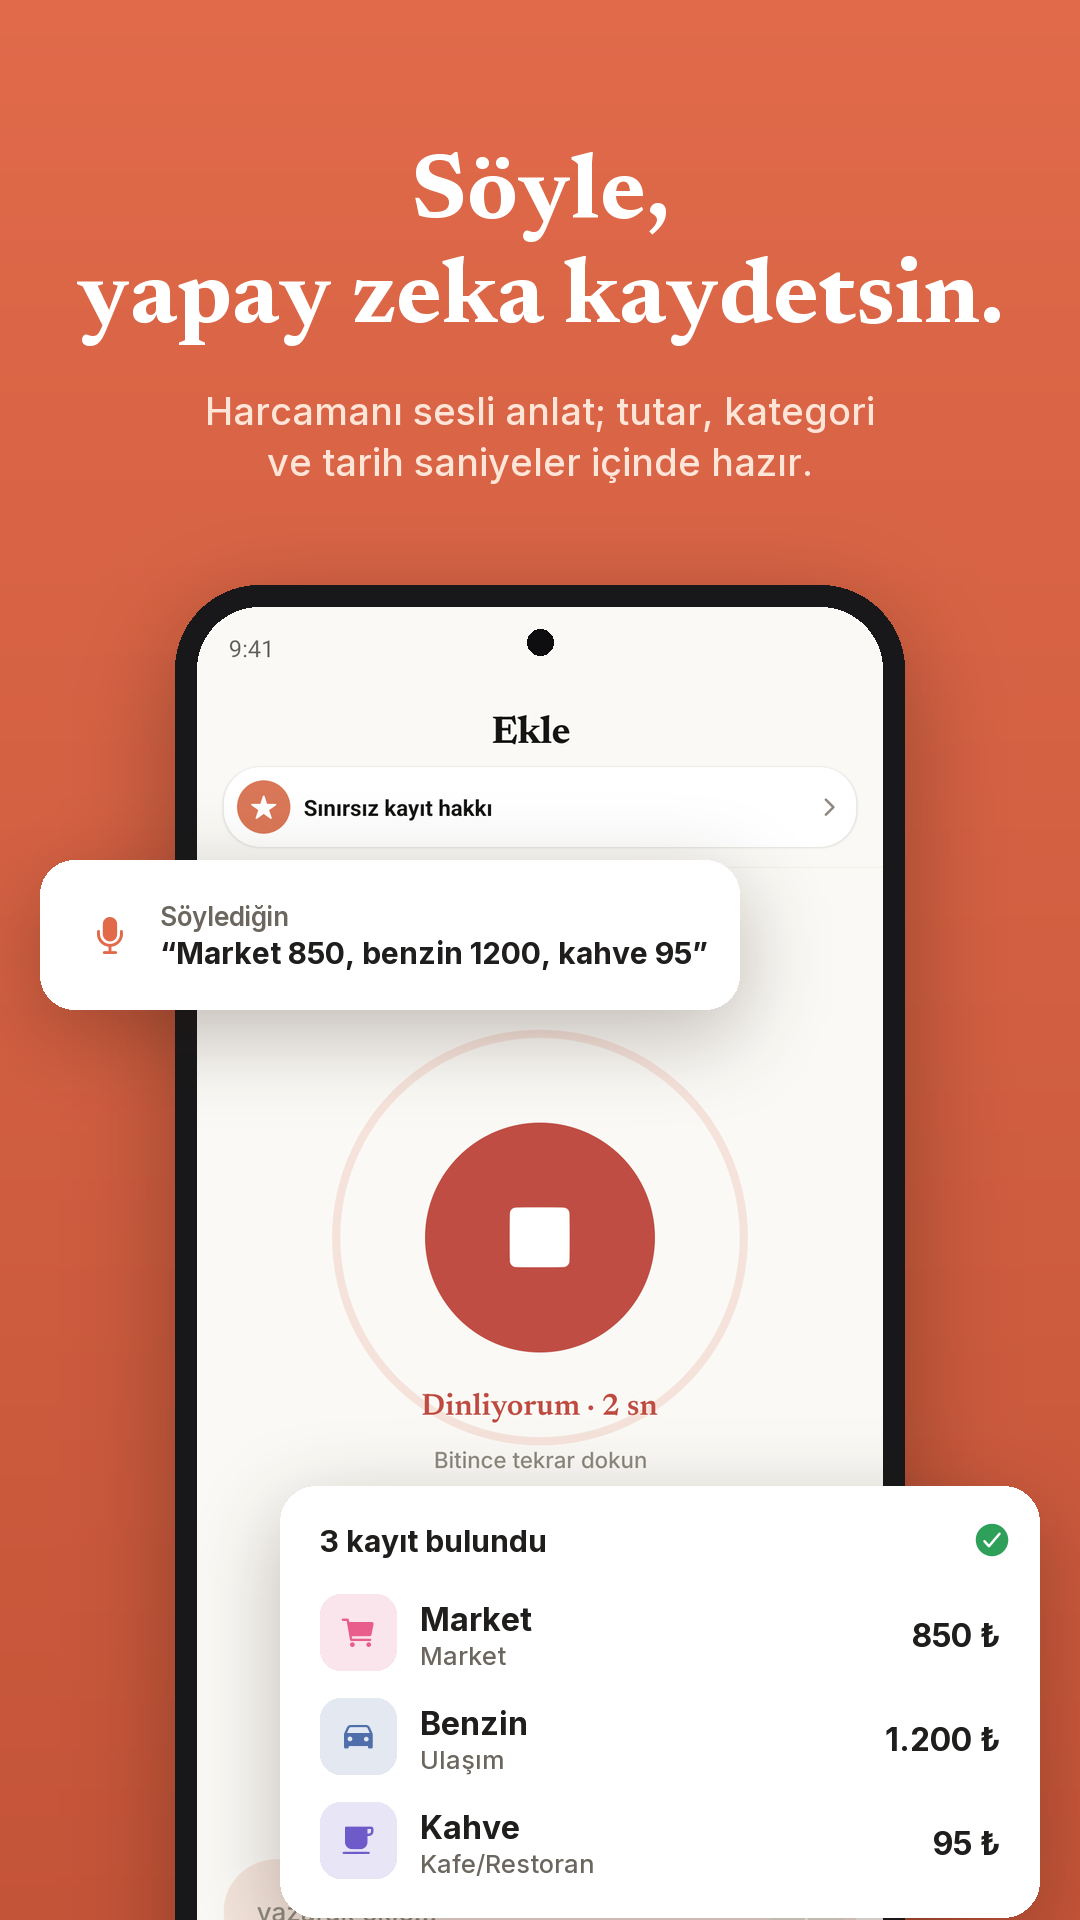
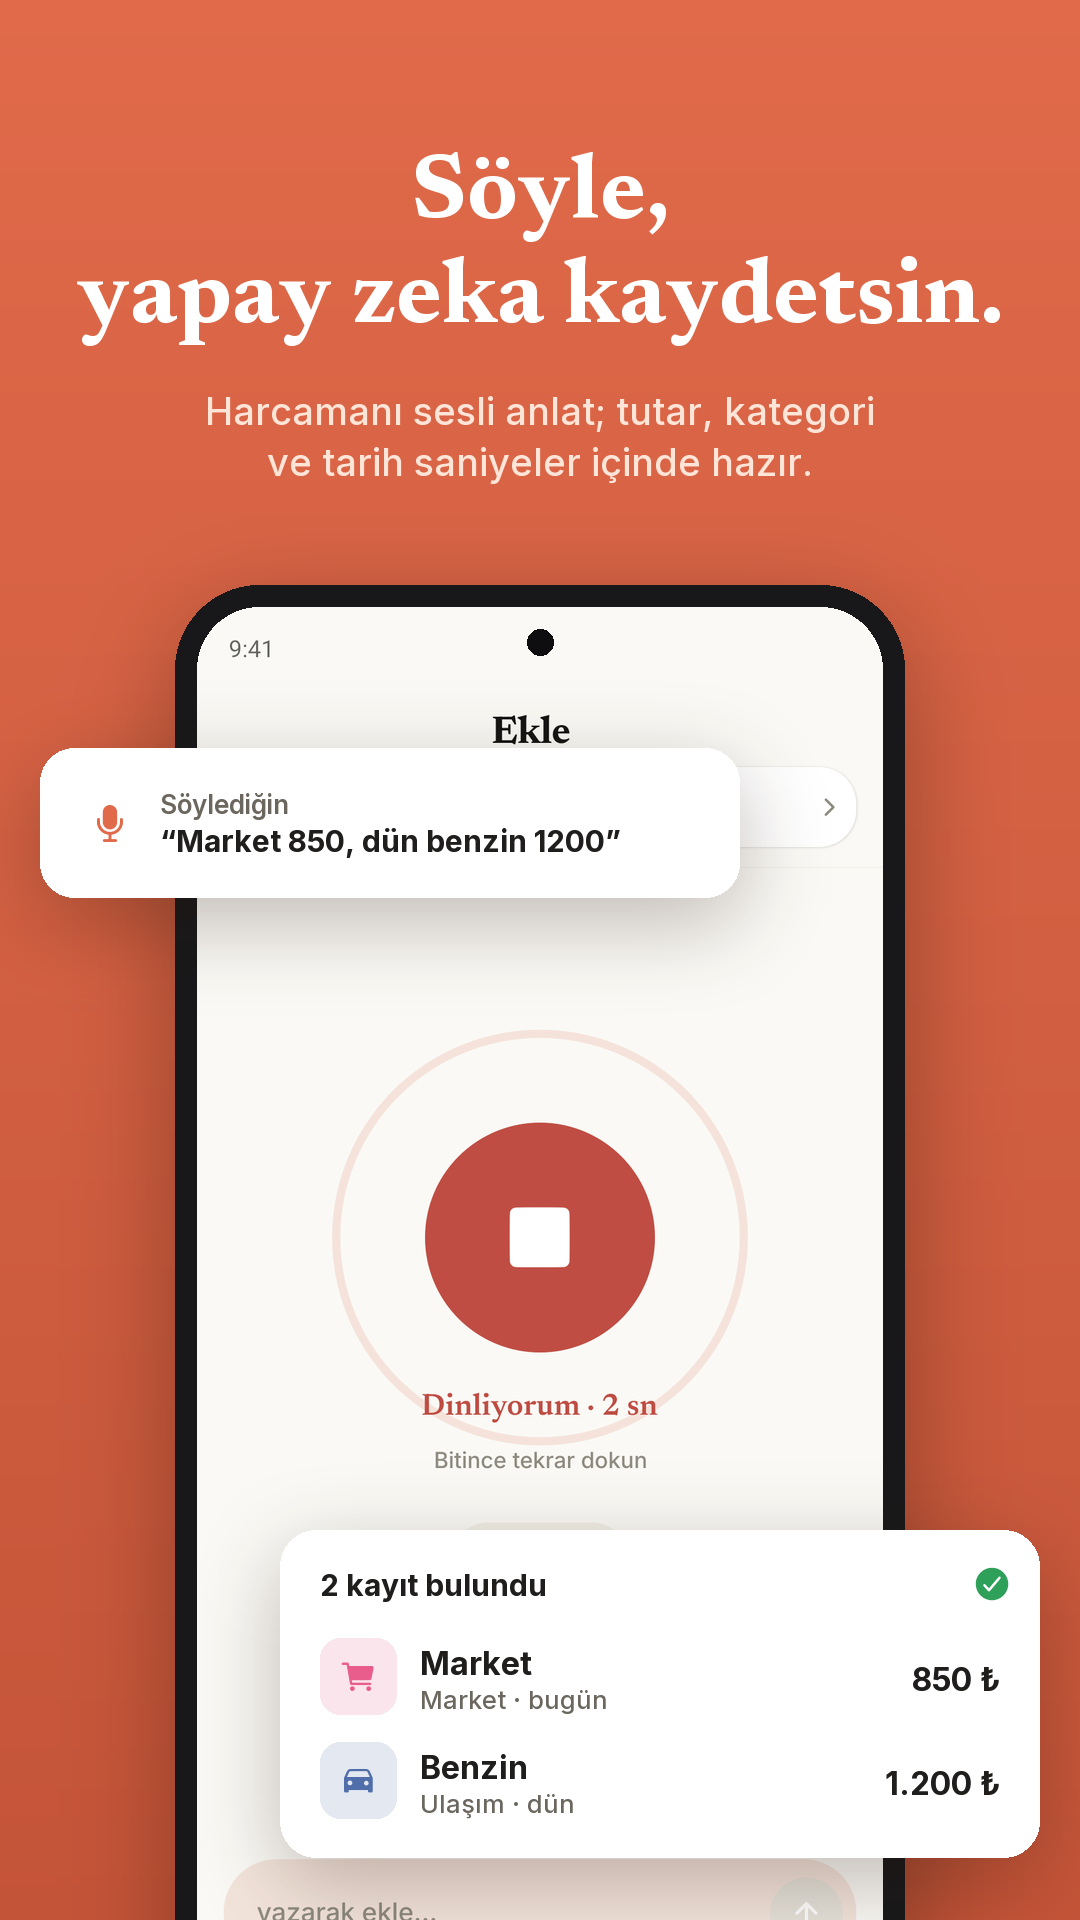
Mağaza görselleri v2: 8 ekran (ses 2 kayıtla, kategori kıyası, limit/hedef, onay, tekrarlayan, bildirim, Excel/PDF, gizlilik)
Ham görüntüler test-ekran@ hesabıyla emülatörden; Expo Go'nun siyah durum çubuğu betikte temiz çubukla değiştirilir.
Örnek cümle 2 kayıt: Free'de günde 3 hak, mağaza örneği hepsini bitirmesin.

Claude-Session: https://claude.ai/code/session_01DHpTQJ2GvvbTb2SL4nd3xL

Changed region(s): [[0.2444, 0.75, 0.9778, 1.0], [0.0306, 0.375, 0.7028, 0.5625]]

diff --git a/scripts/magaza_ekran_goruntuleri.py b/scripts/magaza_ekran_goruntuleri.py
@@ -1,8 +1,12 @@
 """Play Store telefon ekran görüntüleri (1080×1920, 9:16) — ham emülatör görüntülerinden.
 
-Girdi:  docs/magaza-gorselleri/ham/*.png  (Pixel 6 emülatörü, 1080×2400, demo hesap,
-        sysui demo modu: saat 9:41, bildirim yok)
-Çıktı:  docs/magaza-gorselleri/ekran-1..6.png
+Girdi:  docs/magaza-gorselleri/ham/*.png  (Pixel 6 emülatörü, 1080×2400, test-ekran@ hesabı,
+        sysui demo modu: saat 9:41, bildirim yok). Build 11 ile eklenenler (analiz1/2, hedef1/2,
+        tekrar) Expo Go'da siyah durum çubuğuyla çekildi → `ham()` eski temiz çubuğu üstüne koyar.
+Çıktı:  docs/magaza-gorselleri/ekran-1..8.png  (plan: docs/BUYUME-ANALIZI.md §1.6)
+
+Örnek cümle bilerek 2 kayıt: Free planda günde 3 hak var; mağazadaki örnek tek denemede
+hakkın hepsini bitirmesin.
 
 Düzen (2026 mağaza kalıbı): üstte kısa sonuç odaklı başlık + tek satır alt metin, altta
 cihaz çerçevesi (alttan taşar), bazı karelerde arayüzden kesilip büyütülmüş "yüzen" kart.
@@ -88,8 +92,26 @@ def cihaz(tuval: Image.Image, ekran: Image.Image, x: int, y: int, genislik: int)
     golge_yapistir(tuval, govde, (x, y), 84, bulanik=50, koyuluk=90, dy=30)
 
 
+STATU_YUKSEKLIK = 128
+# Temiz durum çubuğu (9:41, wifi, pil) — eski ham görüntüden; arka planı ekrana göre boyanır
+_STATU_KAYNAK = "home"
+
+
+def _statu_seridi(zemin_renk) -> Image.Image:
+    serit = Image.open(HAM / f"{_STATU_KAYNAK}.png").convert("RGB").crop((0, 0, W, STATU_YUKSEKLIK))
+    # KREM'den belirgin farklı pikseller = ikon/yazı; geri kalanı ekranın kendi rengi
+    fark = Image.eval(
+        Image.merge("RGB", [c.point(lambda v, k=k: abs(v - k)) for c, k in zip(serit.split(), KREM, strict=True)]).convert("L"),
+        lambda v: 255 if v > 24 else round(v * 255 / 24),
+    )
+    return Image.composite(serit, Image.new("RGB", serit.size, zemin_renk), fark)
+
+
 def ham(ad: str) -> Image.Image:
-    return Image.open(HAM / f"{ad}.png").convert("RGB")
+    im = Image.open(HAM / f"{ad}.png").convert("RGB")
+    if im.getpixel((540, 60)) == (0, 0, 0):  # Expo Go'nun siyah durum çubuğu
+        im.paste(_statu_seridi(im.getpixel((540, STATU_YUKSEKLIK + 6))), (0, 0))
+    return im
 
 
 def kirp(ad: str, kutu) -> Image.Image:
@@ -143,16 +165,16 @@ def kare1() -> Image.Image:
     b, d = kart(700, 150)
     ikon(d, "mic", (70, 75), 46, TURUNCU)
     d.text((120, 40), "Söylediğin", font=font("sans", "600SemiBold", 26), fill=SOLUK)
-    d.text((120, 74), "“Market 850, benzin 1200, kahve 95”",
+    d.text((120, 74), "“Market 850, dün benzin 1200”",
            font=font("sans", "700Bold", 30), fill=YAZI)
-    golge_yapistir(t, b, (40, 860), 34)
+    # Balon, ham görüntüdeki eski Pro hesabın "Sınırsız kayıt hakkı" şeridini de örter
+    golge_yapistir(t, b, (40, 748), 34)
 
-    # Bulunan kayıtlar
-    satirlar = [("cart", (232, 93, 140), "Market", "Market", "850 ₺"),
-                ("car", (80, 110, 170), "Benzin", "Ulaşım", "1.200 ₺"),
-                ("cafe", (110, 90, 200), "Kahve", "Kafe/Restoran", "95 ₺")]
+    # Bulunan kayıtlar (2 — bkz modül notu)
+    satirlar = [("cart", (232, 93, 140), "Market", "Market · bugün", "850 ₺"),
+                ("car", (80, 110, 170), "Benzin", "Ulaşım · dün", "1.200 ₺")]
     k, d = kart(760, 120 + 104 * len(satirlar))
-    d.text((40, 36), "3 kayıt bulundu", font=font("sans", "700Bold", 30), fill=YAZI)
+    d.text((40, 36), f"{len(satirlar)} kayıt bulundu", font=font("sans", "700Bold", 30), fill=YAZI)
     ikon(d, "checkmark-circle", (712, 54), 40, (46, 160, 90))
     for i, (ik, rk, ad, kat, tutar) in enumerate(satirlar):
         y = 108 + i * 104
@@ -161,11 +183,39 @@ def kare1() -> Image.Image:
         d.text((140, y + 6), ad, font=font("sans", "700Bold", 32), fill=YAZI)
         d.text((140, y + 46), kat, font=font("sans", "500Medium", 25), fill=SOLUK)
         d.text((720, y + 22), tutar, font=font("sans", "700Bold", 32), fill=YAZI, anchor="ra")
-    golge_yapistir(t, k, (280, 1486), 36)
+    golge_yapistir(t, k, (280, 1530), 36)
     return t
 
 
-def kare2() -> Image.Image:
+def kare_analiz() -> Image.Image:
+    t = zemin(KREM, SEFTALI)
+    baslik(t, ["Paran nereye gidiyor?", "Tek bakışta."],
+           "Her kategoride geçen aya göre\nyüzde kaç arttı ya da azaldı.", vurgu="Tek")
+    cihaz(t, ham("analiz2"), 175, 640, 686)
+    satir = kirp("analiz2", (42, 885, 1038, 1100))
+    satir = satir.resize((900, round(satir.height * 900 / satir.width)), Image.LANCZOS)
+    golge_yapistir(t, satir, (90, 1240), 34)
+    return t
+
+
+def kare_limit_hedef() -> Image.Image:
+    t = zemin(KREM, SEFTALI)
+    baslik(t, ["Limit mi, hedef mi?", "Sen seç."],
+           "Harcamaya üst sınır, birikime hedef.\nHer kategori için ayrı.", vurgu="seç")
+    cihaz(t, ham("hedef2"), 175, 640, 686)
+    limit = kirp("hedef2", (42, 415, 1038, 617))
+    limit = limit.resize((900, round(limit.height * 900 / limit.width)), Image.LANCZOS)
+    golge_yapistir(t, limit, (90, 1130), 34)
+    hedef = kirp("hedef1", (84, 1618, 996, 1820)).resize((900, 199), Image.LANCZOS)
+    d = ImageDraw.Draw(hedef)
+    # Yatırım satırında rozet yok — mağaza görselinde iki türü yan yana göstermek için "HEDEF" rozeti
+    d.rounded_rectangle([390, 34, 512, 82], 24, fill=BEYAZ)
+    d.text((451, 58), "HEDEF", font=font("sans", "700Bold", 24), fill=TURUNCU, anchor="mm")
+    golge_yapistir(t, hedef, (90, 1400), 34)
+    return t
+
+
+def kare_onay() -> Image.Image:
     t = zemin(KREM, SEFTALI)
     baslik(t, ["Kontrol", "her zaman sende."],
            "Bulunan tutarı, kategoriyi ve tarihi\ntek dokunuşla düzelt, onayla.", vurgu="sende")
@@ -173,30 +223,18 @@ def kare2() -> Image.Image:
     return t
 
 
-def kare3() -> Image.Image:
+def kare_tekrar() -> Image.Image:
     t = zemin(KREM, SEFTALI)
-    baslik(t, ["Paran nereye gidiyor?", "Tek bakışta."],
-           "Aylık toplamın ve kategori dağılımın\nana ekranında seni bekliyor.", vurgu="Tek")
-    cihaz(t, ham("home"), 175, 640, 686)
-    # Toplam kartı — yüzen
-    ust = kirp("home", (40, 462, 1040, 892))
-    ust = ust.resize((800, round(ust.height * 800 / ust.width)), Image.LANCZOS)
-    golge_yapistir(t, ust, (140, 1020), 40)
+    baslik(t, ["Kira, fatura, maaş", "kendiliğinden."],
+           "Her ay aynı gün otomatik eklenir;\nbir daha elle girmezsin.", vurgu="kendiliğinden.")
+    cihaz(t, ham("tekrar"), 175, 640, 686)
+    satirlar = kirp("tekrar", (42, 938, 1038, 1518))
+    satirlar = satirlar.resize((880, round(satirlar.height * 880 / satirlar.width)), Image.LANCZOS)
+    golge_yapistir(t, satirlar, (100, 1250), 40)
     return t
 
 
-def kare4() -> Image.Image:
-    t = zemin(KREM, SEFTALI)
-    baslik(t, ["Bütçeni koy,", "sınırda kal."],
-           "Aylık sınır ve kategori limitleriyle\nharcamanı kontrol altında tut.", vurgu="sınırda")
-    cihaz(t, ham("hedef"), 175, 640, 686)
-    satir = kirp("hedef", (40, 1248, 1040, 1448))
-    satir = satir.resize((860, round(satir.height * 860 / satir.width)), Image.LANCZOS)
-    golge_yapistir(t, satir, (110, 1420), 34)
-    return t
-
-
-def kare5() -> Image.Image:
+def kare_bildirim() -> Image.Image:
     t = zemin(KREM, SEFTALI)
     baslik(t, ["Sınıra yaklaşınca", "haber verir."],
            "Limit uyarıları, günlük ve haftalık\nözetler bildirim olarak gelir.", vurgu="haber")
@@ -207,7 +245,30 @@ def kare5() -> Image.Image:
     return t
 
 
-def kare6() -> Image.Image:
+def kare_disa_aktar() -> Image.Image:
+    t = zemin(KREM, SEFTALI)
+    baslik(t, ["Excel ve PDF", "dökümün hazır."],
+           "İstediğin tarih aralığı, tüm kayıtlar\nya da tek kategori. (Pro)", vurgu="hazır.")
+    cihaz(t, ham("analiz1"), 175, 640, 686)
+    buton = kirp("analiz1", (42, 717, 1038, 892))
+    buton = buton.resize((900, round(buton.height * 900 / buton.width)), Image.LANCZOS)
+    golge_yapistir(t, buton, (90, 1080), 34)
+    # Biçim seçimi penceresi — uygulamadaki "Dışa aktar" uyarısının sade çizimi
+    k, d = kart(760, 420)
+    d.text((48, 40), "Dışa aktar", font=font("serif", "700Bold", 44), fill=YAZI)
+    d.text((48, 104), "Tüm kayıtlar · 1 – 30 Kasım", font=font("sans", "500Medium", 28), fill=SOLUK)
+    for i, (ik, ad, alt) in enumerate([("grid-outline", "Excel (.xlsx)", "Tabloda düzenle"),
+                                       ("document-text-outline", "PDF", "Yazdır, paylaş")]):
+        y = 170 + i * 118
+        d.rounded_rectangle([40, y, 720, y + 100], 26, fill=(250, 240, 234))
+        ikon(d, ik, (100, y + 50), 40, TURUNCU)
+        d.text((150, y + 18), ad, font=font("sans", "700Bold", 32), fill=YAZI)
+        d.text((150, y + 58), alt, font=font("sans", "500Medium", 24), fill=SOLUK)
+    golge_yapistir(t, k, (260, 1420), 36)
+    return t
+
+
+def kare_gizlilik() -> Image.Image:
     """Güven karesi — cihaz yok, büyük tipografi + üç madde."""
     t = zemin(TURUNCU, TURUNCU_KOYU)
     d = ImageDraw.Draw(t)
@@ -226,8 +287,15 @@ def kare6() -> Image.Image:
     return t
 
 
+# Sıra: ilk 3 kare en önemlisi (çoğu kullanıcı 3.'den sonra kaydırmaz) — ses → analiz → limit/hedef
+KARELER = [kare1, kare_analiz, kare_limit_hedef, kare_onay, kare_tekrar, kare_bildirim, kare_disa_aktar,
+           kare_gizlilik]
+
+
 if __name__ == "__main__":
-    for i, fn in enumerate([kare1, kare2, kare3, kare4, kare5, kare6], 1):
+    for eski in CIKTI.glob("ekran-*.png"):
+        eski.unlink()
+    for i, fn in enumerate(KARELER, 1):
         yol = CIKTI / f"ekran-{i}.png"
         fn().save(yol, optimize=True)
         print(yol.relative_to(KOK))

diff --git a/docs/BUYUME-ANALIZI.md b/docs/BUYUME-ANALIZI.md
@@ -136,16 +136,19 @@ Excel ve PDF dökümü (Pro)
 
 ### 1.6 Görsel planı (8 ekran — build 11 sonrası, test-ekran hesabıyla)
 
-| Sıra | Başlık önerisi | Ekran | Durum |
+| Sıra | Başlık | Ekran | Durum |
 |---|---|---|---|
-| 1 | Söyle, yapay zeka kaydetsin. | Sesli kayıt + 3 kayıt bulundu | Var, kalsın |
-| 2 | Paran nereye gidiyor? Tek bakışta. | **Analiz: kategori kıyası (% artış/azalış)** | Yenile |
-| 3 | Limit mi, hedef mi? Sen seç. | **Hedefler: LİMİT/HEDEF etiketli satırlar, gerçek ilerleme** | Yeni |
-| 4 | Kontrol her zaman sende. | Onay ekranı | Var |
-| 5 | Kira, fatura, abonelik otomatik. | Tekrarlayan kayıtlar | Yeni |
-| 6 | Sınıra yaklaşınca haber verir. | Bildirimler (gerçek veriyle) | Yenile |
-| 7 | Excel ve PDF dökümün hazır. | Dışa aktar butonu + paylaşım | Yeni |
-| 8 | Bankana bağlanmaz. Verin sende kalır. | Gizlilik | Var |
+| 1 | Söyle, yapay zeka kaydetsin. | Sesli kayıt + **2 kayıt** bulundu (3 hakkın hepsini bitirmez) | ✅ ekran-1 |
+| 2 | Paran nereye gidiyor? Tek bakışta. | Analiz: kategori kıyası (% artış/azalış) | ✅ ekran-2 |
+| 3 | Limit mi, hedef mi? Sen seç. | Hedefler: LİMİT/HEDEF satırları, gerçek ilerleme | ✅ ekran-3 |
+| 4 | Kontrol her zaman sende. | Onay ekranı | ✅ ekran-4 |
+| 5 | Kira, fatura, maaş kendiliğinden. | Tekrarlayan kayıtlar | ✅ ekran-5 |
+| 6 | Sınıra yaklaşınca haber verir. | Bildirimler | ✅ ekran-6 |
+| 7 | Excel ve PDF dökümün hazır. | Dışa aktar butonu + biçim seçimi | ✅ ekran-7 |
+| 8 | Bankana bağlanmaz. Verin sende kalır. | Gizlilik | ✅ ekran-8 |
+
+Üretim (2026-11-12): `python scripts/magaza_ekran_goruntuleri.py` (ham: test-ekran@ hesabı, emülatör).
+Build 11 yayına girmeden Play'e yükleme (ekran 3, 5 ve 7'deki özellikler build 10'da yok/eksik).
 
 İlk 3 ekran en önemlisi (çoğu kullanıcı 3.'den sonra kaydırmaz): ses → analiz → limit/hedef.
 
